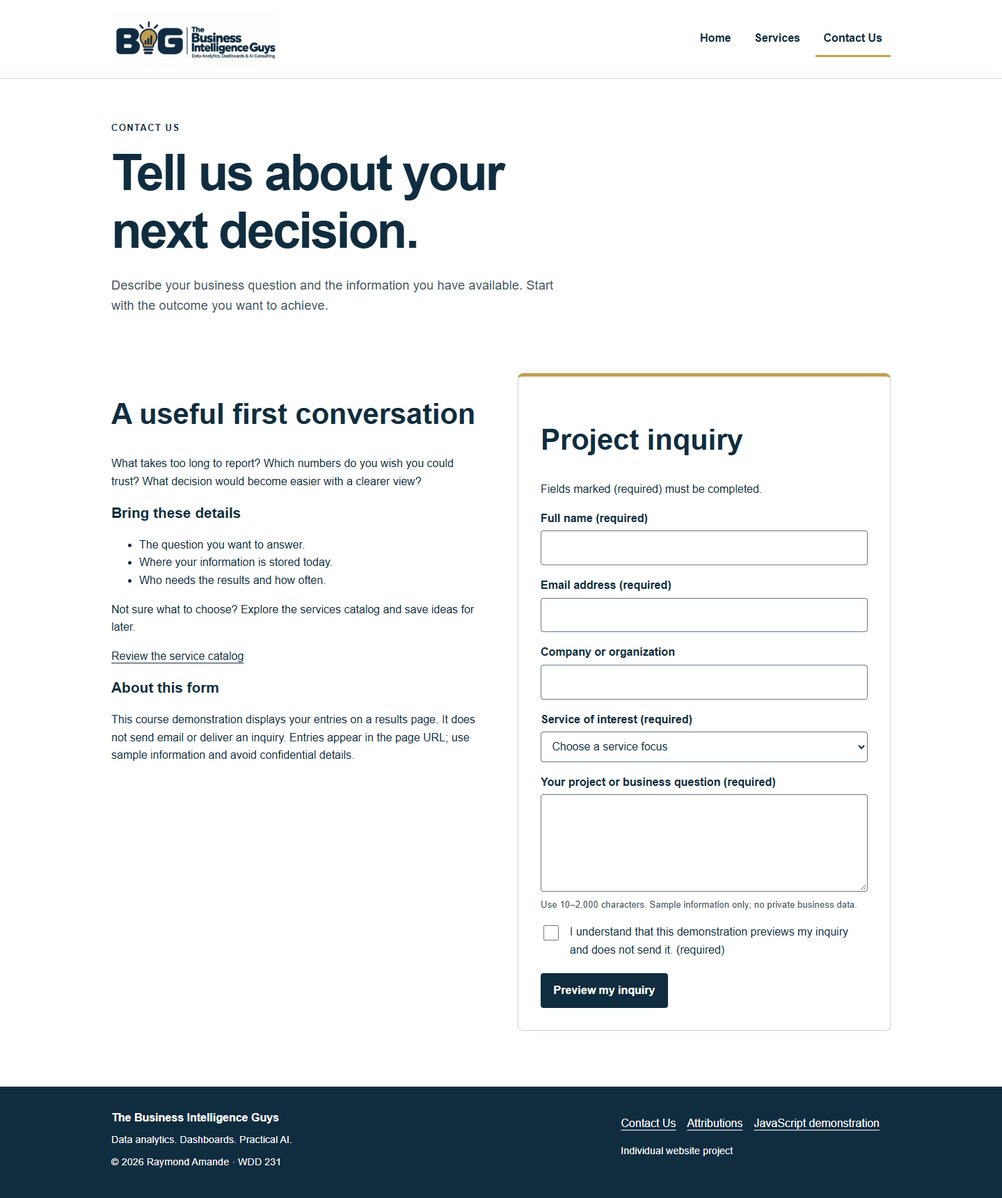
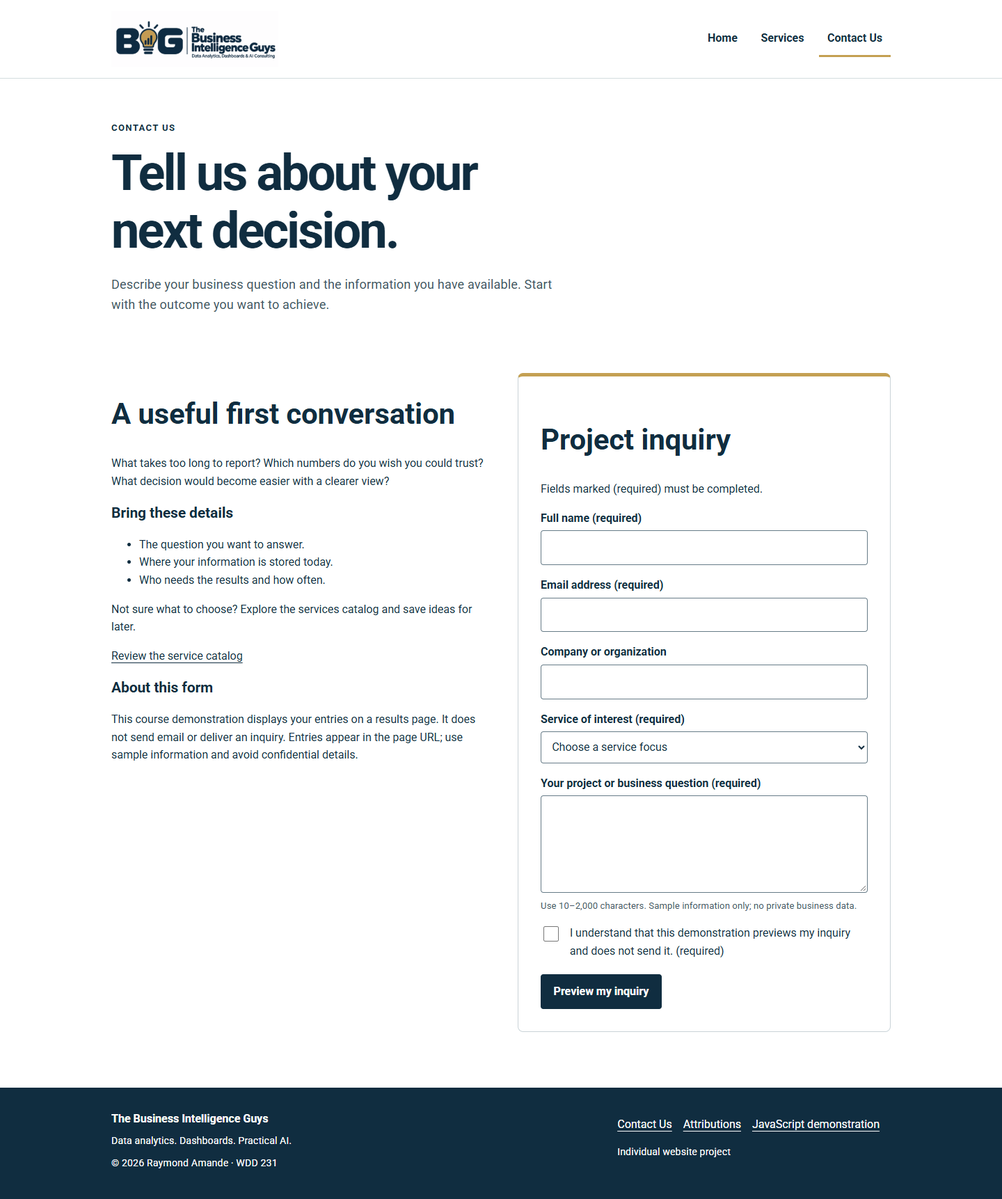
made several updates

diff --git a/final_project/styles/site.css b/final_project/styles/site.css
@@ -1,6 +1,6 @@
-:root{--navy:#102d40;--gold:#c4a052;--paper:#f4f6f5;--muted:#405563;font-family:Arial,sans-serif;color:var(--navy);background:white;line-height:1.6}
-*{box-sizing:border-box}body{margin:0}img{max-width:100%;height:auto;display:block}a{color:inherit;text-underline-offset:.25em}button,input,select,textarea{font:inherit}button,a,input,select,textarea{touch-action:manipulation}button{cursor:pointer}h1,h2,h3{line-height:1.15;text-wrap:balance}h1{font-size:clamp(2.3rem,5vw,4.8rem);letter-spacing:-.04em;margin:.6rem 0 1.4rem}h2{font-size:clamp(1.7rem,3vw,2.6rem)}h3{font-size:1.3rem}p{max-width:65ch}p,li,dd{overflow-wrap:anywhere}.wrap{width:min(1120px,calc(100% - 2rem));margin:auto}.skip{position:absolute;top:-100px;left:1rem;background:white;padding:1rem;z-index:10}.skip:focus{top:1rem}:focus-visible{outline:3px solid #967023;outline-offset:4px}header{border-bottom:1px solid #d4dddf}.header-inner{display:flex;align-items:center;justify-content:space-between;gap:1rem;padding:1rem 0}.brand img{width:240px}.menu{background:var(--navy);color:white;border:0;padding:.6rem .9rem;min-height:44px}nav{display:flex;gap:.6rem}nav a{padding:.75rem;text-decoration:none;font-weight:bold;min-height:44px}nav a[aria-current]{border-bottom:3px solid var(--gold)}nav a:hover{background:var(--paper)}.eyebrow{text-transform:uppercase;letter-spacing:.12em;font-size:.8rem;font-weight:bold}.hero{display:grid;grid-template-columns:1.2fr 1fr;gap:3rem;align-items:center;padding:4rem 0}.lead{font-size:1.15rem;color:var(--muted)}.actions{display:flex;flex-wrap:wrap;gap:.8rem;margin-top:1.6rem}.button{display:inline-flex;align-items:center;justify-content:center;min-height:44px;border:1px solid var(--navy);background:var(--navy);color:white;padding:.7rem 1.1rem;border-radius:4px;text-decoration:none;font-weight:bold}.button.secondary{background:white;color:var(--navy)}.button:hover{background:var(--gold);color:var(--navy)}.dashboard{background:var(--navy);color:white;padding:1.6rem;border-radius:12px;box-shadow:12px 12px 0 #e9e1cd}.dashboard .eyebrow{color:var(--gold)}.metrics{display:grid;grid-template-columns:1fr 1fr;gap:1rem}.metric{border:1px solid #647783;padding:1rem;border-radius:6px}.metric strong{display:block;font-size:1.9rem;color:var(--gold)}.bars{height:130px;display:flex;align-items:end;gap:8%;border-bottom:1px solid #647783;margin:1.5rem 0}.bars span{flex:1;background:var(--gold);height:var(--height);border-radius:3px 3px 0 0}.caption{font-size:.85rem}.band{background:var(--paper);padding:3rem 0}.section{padding:3rem 0}.grid{display:grid;grid-template-columns:repeat(3,minmax(0,1fr));gap:1.2rem}.card{border:1px solid #c8d3d7;border-radius:8px;padding:1.5rem;background:white;display:flex;flex-direction:column;align-items:start}.card h2{font-size:1.35rem;margin:.7rem 0}.card h3{margin:.7rem 0}.card .button{margin-top:auto}.tag{font-size:.8rem;background:#eee7d5;padding:.25rem .6rem;border-radius:3px;font-weight:bold}.split{display:grid;grid-template-columns:1fr 1fr;gap:3rem;align-items:start}.number{color:#796025;font-size:2rem;font-weight:bold}.callout{background:var(--navy);color:white;padding:2rem;border-radius:8px}.callout .button{background:var(--gold);color:var(--navy)}footer{background:var(--navy);color:white;padding:2rem 0;margin-top:2rem}footer .wrap{display:flex;justify-content:space-between;gap:2rem;flex-wrap:wrap}footer a{display:inline-block;padding:.5rem 0;margin-right:1rem}footer p{margin:.5rem 0;font-size:.9rem}.page-intro{padding:3rem 0 1rem;max-width:780px}.toolbar{display:flex;flex-wrap:wrap;gap:1rem;align-items:end;padding:1.3rem;background:var(--paper);border-radius:8px;margin-bottom:1.5rem}.toolbar label{display:grid;gap:.3rem;flex:1;min-width:150px}.toolbar .check{display:flex;align-items:center;gap:.5rem;min-height:44px}.status{min-height:1.6em;color:var(--muted)}input,select,textarea{width:100%;border:1px solid #667b87;border-radius:4px;padding:.7rem;background:white;color:var(--navy)}input[type=checkbox]{width:22px;height:22px}.card dl{font-size:.9rem;margin:1rem 0}.card dt{font-weight:bold}.card dd{margin:0 0 .6rem;color:var(--muted)}.card-actions{display:flex;flex-wrap:wrap;gap:.5rem;margin-top:auto}.card-actions .button{font-size:.9rem}.save[aria-pressed=true]{background:#eee7d5;color:var(--navy)}dialog{width:min(560px,calc(100% - 2rem));max-height:85vh;border:0;border-radius:10px;padding:2rem;color:var(--navy)}dialog::backdrop{background:#102d40b8}.dialog-top{display:flex;justify-content:space-between;align-items:start;gap:1rem}.dialog-top h2{margin:0}.dialog-top button{min-width:44px;min-height:44px;background:var(--paper);border:1px solid #667b87}.form-panel{border:1px solid #c8d3d7;border-top:5px solid var(--gold);padding:2rem;border-radius:8px}form label{display:block;font-weight:bold;margin:1rem 0 .3rem}form small{display:block;color:var(--muted)}textarea{min-height:140px;resize:vertical}.form-panel .button{margin-top:1rem}.form-panel .check{display:flex;gap:.8rem;align-items:start;font-weight:normal}.results{display:grid;grid-template-columns:9rem 1fr;gap:0;margin:0}.results dt,.results dd{padding:1rem;border-bottom:1px solid #c8d3d7;margin:0}.results dt{font-weight:bold}.illustration{width:100%;border-radius:8px}.empty{grid-column:1/-1;padding:2rem;background:var(--paper)}[hidden]{display:none!important}
+:root{--navy:#102d40;--gold:#c4a052;--paper:#f4f6f5;--muted:#405563;font-family:"Roboto",Arial,sans-serif;color:var(--navy);background:white;line-height:1.6}
+*{box-sizing:border-box}body{margin:0}img{max-width:100%;height:auto;display:block}a{color:inherit;text-underline-offset:.25em}button,input,select,textarea{font:inherit}button,a,input,select,textarea{touch-action:manipulation}button{cursor:pointer}h1,h2,h3{line-height:1.15;text-wrap:balance}h1{font-size:clamp(2.3rem,5vw,4.8rem);letter-spacing:-.04em;margin:.6rem 0 1.4rem}h2{font-size:clamp(1.7rem,3vw,2.6rem)}h3{font-size:1.3rem}p{max-width:65ch}p,li,dd{overflow-wrap:anywhere}.wrap{width:min(1120px,calc(100% - 2rem));margin:auto}.skip{position:absolute;top:-100px;left:1rem;background:white;padding:1rem;z-index:10}.skip:focus{top:1rem}:focus-visible{outline:3px solid #967023;outline-offset:4px}header{border-bottom:1px solid #d4dddf}.header-inner{display:flex;align-items:center;justify-content:space-between;gap:1rem;padding:1rem 0}.brand img{width:240px}.menu{background:var(--navy);color:white;border:0;padding:.6rem .9rem;min-height:44px}nav{display:flex;gap:.6rem}nav a{padding:.75rem;text-decoration:none;font-weight:bold;min-height:44px}nav a[aria-current]{border-bottom:3px solid var(--gold)}nav a:hover{background:var(--paper)}.eyebrow{text-transform:uppercase;letter-spacing:.12em;font-size:.8rem;font-weight:bold}.hero{display:grid;grid-template-columns:1.2fr 1fr;gap:3rem;align-items:center;padding:4rem 0}.lead{font-size:1.15rem;color:var(--muted)}.actions{display:flex;flex-wrap:wrap;gap:.8rem;margin-top:1.6rem}.button{display:inline-flex;align-items:center;justify-content:center;min-height:44px;border:1px solid var(--navy);background:var(--navy);color:white;padding:.7rem 1.1rem;border-radius:4px;text-decoration:none;font-weight:bold}.button.secondary{background:white;color:var(--navy)}.button:hover{background:var(--gold);color:var(--navy)}.dashboard{background:var(--navy);color:white;padding:1.6rem;border-radius:12px;box-shadow:12px 12px 0 #e9e1cd}.dashboard .eyebrow{color:var(--gold)}.metrics{display:grid;grid-template-columns:1fr 1fr;gap:1rem}.metric{border:1px solid #647783;padding:1rem;border-radius:6px}.metric strong{display:block;font-size:1.9rem;color:var(--gold)}.bars{height:130px;display:flex;align-items:end;gap:8%;border-bottom:1px solid #647783;margin:1.5rem 0}.bars span{flex:1;background:var(--gold);height:var(--height);border-radius:3px 3px 0 0}.caption{font-size:.85rem}.band{background:var(--paper);padding:3rem 0}.section{padding:3rem 0}.grid{display:grid;grid-template-columns:repeat(3,minmax(0,1fr));gap:1.2rem}.card{border:1px solid #c8d3d7;border-radius:8px;padding:1.5rem;background:white;display:flex;flex-direction:column;align-items:start}.card h2{font-size:1.35rem;margin:.7rem 0}.card h3{margin:.7rem 0}.card .button{margin-top:auto}.tag{font-size:.8rem;background:#eee7d5;padding:.25rem .6rem;border-radius:3px;font-weight:bold}.split{display:grid;grid-template-columns:1fr 1fr;gap:3rem;align-items:start}.number{color:#796025;font-size:2rem;font-weight:bold}.callout{background:var(--navy);color:white;padding:2rem;border-radius:8px}.callout .button{background:var(--gold);color:var(--navy)}footer{background:var(--navy);color:white;padding:2rem 0;margin-top:2rem}footer .wrap{display:flex;justify-content:space-between;gap:2rem;flex-wrap:wrap}footer a{display:inline-block;padding:.5rem 0;margin-right:1rem}footer p{margin:.5rem 0;font-size:.9rem}.page-intro{padding:3rem 0 1rem;max-width:780px}.toolbar{display:flex;flex-wrap:wrap;gap:1rem;align-items:end;padding:1.3rem;background:var(--paper);border-radius:8px;margin-bottom:1.5rem}.toolbar label{display:grid;gap:.3rem;flex:1;min-width:150px}.toolbar .check{display:flex;align-items:center;gap:.5rem;min-height:44px}.status{min-height:1.6em;color:var(--muted)}input,select,textarea{width:100%;border:1px solid #667b87;border-radius:4px;padding:.7rem;background:white;color:var(--navy)}input[type=checkbox]{width:22px;height:22px;flex-shrink:0}.card dl{font-size:.9rem;margin:1rem 0}.card dt{font-weight:bold}.card dd{margin:0 0 .6rem;color:var(--muted)}.card-actions{display:flex;flex-wrap:wrap;gap:.5rem;margin-top:auto}.card-actions .button{font-size:.9rem}.save[aria-pressed=true]{background:#eee7d5;color:var(--navy)}dialog{width:min(560px,calc(100% - 2rem));max-height:85vh;border:0;border-radius:10px;padding:2rem;color:var(--navy)}dialog::backdrop{background:#102d40b8}.dialog-top{display:flex;justify-content:space-between;align-items:start;gap:1rem}.dialog-top h2{margin:0}.dialog-top button{min-width:44px;min-height:44px;background:var(--paper);border:1px solid #667b87}.form-panel{border:1px solid #c8d3d7;border-top:5px solid var(--gold);padding:2rem;border-radius:8px}form label{display:block;font-weight:bold;margin:1rem 0 .3rem}form small{display:block;color:var(--muted)}textarea{min-height:140px;resize:vertical}.form-panel .button{margin-top:1rem}.form-panel .check{display:flex;gap:.8rem;align-items:start;font-weight:normal}.results{display:grid;grid-template-columns:9rem 1fr;gap:0;margin:0}.results dt,.results dd{padding:1rem;border-bottom:1px solid #c8d3d7;margin:0}.results dt{font-weight:bold}.illustration{width:100%;border-radius:8px}.empty{grid-column:1/-1;padding:2rem;background:var(--paper)}[hidden][hidden]{display:none}
 @media(max-width:760px){.header-inner{flex-wrap:wrap}.brand img{width:190px}nav{width:100%;flex-direction:column}nav:not(.open){display:none}.hero,.split{grid-template-columns:1fr;gap:2rem}.hero{padding:2.5rem 0}.grid{grid-template-columns:repeat(2,minmax(0,1fr))}.dashboard{box-shadow:6px 6px 0 #e9e1cd}.form-panel{padding:1.2rem}}
-input[type=checkbox]{flex-shrink:0}
+
 @media(max-width:500px){.brand img{width:160px}.grid{grid-template-columns:1fr}.results{grid-template-columns:1fr}.results dt{border:0;padding-bottom:0}.section,.band{padding:2rem 0}}
 @media(min-width:761px){.menu{display:none}}

diff --git a/final_project/attributions.html b/final_project/attributions.html
@@ -2,14 +2,17 @@
 <html lang="en-US" prefix="og: https://ogp.me/ns#">
 <head>
 <meta charset="utf-8"><meta name="viewport" content="width=device-width, initial-scale=1">
-<title>Content and Asset Attributions | The Business Intelligence Guys</title>
+<title>Attributions | The Business Intelligence Guys</title>
 <meta name="description" content="Sources and authorship for the branding, content, and sample data used in this individual project."><meta name="author" content="Raymond Amande"><meta name="theme-color" content="#102d40">
-<meta property="og:title" content="Content and Asset Attributions | The Business Intelligence Guys"><meta property="og:description" content="Sources and authorship for the branding, content, and sample data used in this individual project."><meta property="og:type" content="website"><meta property="og:url" content="https://raymondangel.github.io/https---github.com-RaymondAngel-wdd231/final_project/attributions.html"><meta property="og:image" content="https://raymondangel.github.io/https---github.com-RaymondAngel-wdd231/final_project/images/logo.png"><meta property="og:image:alt" content="The Business Intelligence Guys logo"><meta property="og:site_name" content="The Business Intelligence Guys">
+<meta property="og:title" content="Attributions | The Business Intelligence Guys"><meta property="og:description" content="Sources and authorship for the branding, content, and sample data used in this individual project."><meta property="og:type" content="website"><meta property="og:url" content="https://raymondangel.github.io/wdd231/final_project/attributions.html"><meta property="og:image" content="https://raymondangel.github.io/wdd231/final_project/images/logo.png"><meta property="og:image:alt" content="The Business Intelligence Guys logo"><meta property="og:site_name" content="The Business Intelligence Guys">
 <link rel="icon" type="image/png" href="images/favicon-32.png"><link rel="stylesheet" href="styles/site.css">
 <script type="module" src="scripts/main.mjs"></script>
+<link rel="preconnect" href="https://fonts.googleapis.com">
+<link rel="preconnect" href="https://fonts.gstatic.com" crossorigin>
+<link href="https://fonts.googleapis.com/css2?family=Roboto:wght@400;700&display=swap" rel="stylesheet">
 </head><body>
 <a class="skip" href="#main">Skip to content</a>
 <header><div class="wrap header-inner"><a class="brand" href="index.html" aria-label="The Business Intelligence Guys home"><img src="images/logo.png" width="720" height="240" alt="The Business Intelligence Guys"></a><button class="menu" type="button" aria-controls="navigation" aria-expanded="false">Menu &#9776;</button><nav id="navigation" aria-label="Primary navigation"><a href="index.html">Home</a><a href="services.html">Services</a><a href="contact.html">Contact Us</a></nav></div></header>
-<main id="main"><div class="wrap section"><h1>Attributions</h1><h2>Project authorship</h2><p>The website concept, business idea, and project planning were developed by Raymond Amande for his WDD 231 individual website project. OpenAI Codex was used for debugging assistance and explanations during development.</p><h2>Branding</h2><p>The name, palette, typography, and page structure follow the existing <a href="site-plan.html">site plan</a>. Logo and favicon reuse the existing AI-generated project assets. Original image prompts are retained in the notes folder.</p><h2>Illustrative content</h2><p>Service descriptions, the process diagram, and the dashboard example were created for this project. Revenue, orders, and chart values are fictional. No customer testimonials or client results are presented.</p><h2>Technology</h2><p>Built with HTML, CSS, and JavaScript ES modules. No third-party frameworks, templates, or font downloads are used.</p></div></main>
+<main id="main"><div class="wrap section"><h1>Attributions</h1><h2>Project authorship</h2><p>The website concept, business idea, and project planning were developed by Raymond Amande for his WDD 231 individual website project. OpenAI Codex was used for debugging assistance and explanations during development.</p><h2>Branding</h2><p>The name, palette, typography, and page structure follow the existing <a href="site-plan.html">site plan</a>. Logo and favicon reuse the existing AI-generated project assets. Original image prompts are retained in the notes folder.</p><h2>Illustrative content</h2><p>Service descriptions, the process diagram, and the dashboard example were created for this project. Revenue, orders, and chart values are fictional. No customer testimonials or client results are presented.</p><h2>Technology</h2><p>Built with HTML, CSS, and JavaScript ES modules. Roboto is provided through Google Fonts. No third-party frameworks or templates are used.</p></div></main>
 <footer><div class="wrap"><div><strong>The Business Intelligence Guys</strong><p>Data analytics. Dashboards. Practical AI.</p><p>&copy; <span id="year">2026</span> Raymond Amande &middot; WDD 231</p></div><div><a href="contact.html">Contact Us</a><a href="attributions.html">Attributions</a><a href="video.html">JavaScript demonstration</a><p>Individual website project</p></div></div></footer>
 </body></html>

diff --git a/final_project/site-plan.html b/final_project/site-plan.html
@@ -9,6 +9,9 @@
   <title>Site Plan | The Business Intelligence Guys</title>
   <link rel="icon" href="images/favicon.ico">
   <link rel="stylesheet" href="styles/site-plan.css">
+<link rel="preconnect" href="https://fonts.googleapis.com">
+<link rel="preconnect" href="https://fonts.gstatic.com" crossorigin>
+<link href="https://fonts.googleapis.com/css2?family=Roboto:wght@400;700&display=swap" rel="stylesheet">
 </head>
 <body>
   <a class="skip-link" href="#main">Skip to content</a>
@@ -36,7 +39,7 @@
       <h2 id="name-heading">Site Name</h2>
       <p><strong>The Business Intelligence Guys</strong> identifies the company’s focus on business intelligence. The abbreviation “BIG” creates a memorable brand, while the light-bulb logo represents ideas, insight, and turning data into useful information.</p>
       <figure class="brand">
-        <img src="images/business_intelligence_guys_logo-v2.png" alt="BIG logo with a gold light bulb and the words The Business Intelligence Guys: Data Analytics, Dashboards &amp; AI Consulting" width="2172" height="724">
+        <img src="images/logo.png" alt="BIG logo with a gold light bulb and the words The Business Intelligence Guys: Data Analytics, Dashboards &amp; AI Consulting" width="720" height="240">
         <figcaption>The company logo and matching light-bulb favicon establish a consistent visual identity.</figcaption>
       </figure>
     </section>
@@ -101,15 +104,15 @@
     <section id="typography" aria-labelledby="type-heading">
       <p class="section-number">05 / Type</p>
       <h2 id="type-heading">Typography</h2>
-      <p><strong>Arial</strong> is the selected font for the website and this plan, with a generic sans-serif fallback if Arial is unavailable.</p>
+      <p><strong>Roboto</strong> is the selected font for the website and this plan, with a generic sans-serif fallback if Roboto is unavailable.</p>
       <div class="type-sample">
         <h3>Clear insights for better decisions</h3>
-        <p>This paragraph demonstrates regular Arial for service descriptions and other body text. Comfortable line spacing and short paragraphs will support readability.</p>
+        <p>This paragraph demonstrates regular Roboto for service descriptions and other body text. Comfortable line spacing and short paragraphs will support readability.</p>
       </div>
       <ul>
-        <li><strong>Headings:</strong> Bold Arial establishes the content hierarchy.</li>
-        <li><strong>Body text:</strong> Regular Arial presents descriptions and paragraphs.</li>
-        <li><strong>Navigation, buttons, and form labels:</strong> Arial with consistent sizing and appropriate emphasis.</li>
+        <li><strong>Headings:</strong> Bold Roboto establishes the content hierarchy.</li>
+        <li><strong>Body text:</strong> Regular Roboto presents descriptions and paragraphs.</li>
+        <li><strong>Navigation, buttons, and form labels:</strong> Roboto with consistent sizing and appropriate emphasis.</li>
       </ul>
     </section>
 

diff --git a/final_project/services.html b/final_project/services.html
@@ -4,9 +4,12 @@
 <meta charset="utf-8"><meta name="viewport" content="width=device-width, initial-scale=1">
 <title>Data, Dashboard and AI Services | The Business Intelligence Guys</title>
 <meta name="description" content="Browse fifteen business intelligence services, save favorites, and explore practical service examples."><meta name="author" content="Raymond Amande"><meta name="theme-color" content="#102d40">
-<meta property="og:title" content="Data, Dashboard and AI Services | The Business Intelligence Guys"><meta property="og:description" content="Browse fifteen business intelligence services, save favorites, and explore practical service examples."><meta property="og:type" content="website"><meta property="og:url" content="https://raymondangel.github.io/https---github.com-RaymondAngel-wdd231/final_project/services.html"><meta property="og:image" content="https://raymondangel.github.io/https---github.com-RaymondAngel-wdd231/final_project/images/logo.png"><meta property="og:image:alt" content="The Business Intelligence Guys logo"><meta property="og:site_name" content="The Business Intelligence Guys">
+<meta property="og:title" content="Data, Dashboard and AI Services | The Business Intelligence Guys"><meta property="og:description" content="Browse fifteen business intelligence services, save favorites, and explore practical service examples."><meta property="og:type" content="website"><meta property="og:url" content="https://raymondangel.github.io/wdd231/final_project/services.html"><meta property="og:image" content="https://raymondangel.github.io/wdd231/final_project/images/logo.png"><meta property="og:image:alt" content="The Business Intelligence Guys logo"><meta property="og:site_name" content="The Business Intelligence Guys">
 <link rel="icon" type="image/png" href="images/favicon-32.png"><link rel="stylesheet" href="styles/site.css">
 <script type="module" src="scripts/main.mjs"></script><script type="module" src="scripts/services.mjs"></script>
+<link rel="preconnect" href="https://fonts.googleapis.com">
+<link rel="preconnect" href="https://fonts.gstatic.com" crossorigin>
+<link href="https://fonts.googleapis.com/css2?family=Roboto:wght@400;700&display=swap" rel="stylesheet">
 </head><body>
 <a class="skip" href="#main">Skip to content</a>
 <header><div class="wrap header-inner"><a class="brand" href="index.html" aria-label="The Business Intelligence Guys home"><img src="images/logo.png" width="720" height="240" alt="The Business Intelligence Guys"></a><button class="menu" type="button" aria-controls="navigation" aria-expanded="false">Menu &#9776;</button><nav id="navigation" aria-label="Primary navigation"><a href="index.html">Home</a><a href="services.html" aria-current="page">Services</a><a href="contact.html">Contact Us</a></nav></div></header>

diff --git a/final_project/contact.html b/final_project/contact.html
@@ -4,9 +4,12 @@
 <meta charset="utf-8"><meta name="viewport" content="width=device-width, initial-scale=1">
 <title>Contact Us About Your Data Project | The Business Intelligence Guys</title>
 <meta name="description" content="Outline your analytics, dashboard, or AI project in an accessible demonstration inquiry form."><meta name="author" content="Raymond Amande"><meta name="theme-color" content="#102d40">
-<meta property="og:title" content="Contact Us About Your Data Project | The Business Intelligence Guys"><meta property="og:description" content="Outline your analytics, dashboard, or AI project in an accessible demonstration inquiry form."><meta property="og:type" content="website"><meta property="og:url" content="https://raymondangel.github.io/https---github.com-RaymondAngel-wdd231/final_project/contact.html"><meta property="og:image" content="https://raymondangel.github.io/https---github.com-RaymondAngel-wdd231/final_project/images/logo.png"><meta property="og:image:alt" content="The Business Intelligence Guys logo"><meta property="og:site_name" content="The Business Intelligence Guys">
+<meta property="og:title" content="Contact Us About Your Data Project | The Business Intelligence Guys"><meta property="og:description" content="Outline your analytics, dashboard, or AI project in an accessible demonstration inquiry form."><meta property="og:type" content="website"><meta property="og:url" content="https://raymondangel.github.io/wdd231/final_project/contact.html"><meta property="og:image" content="https://raymondangel.github.io/wdd231/final_project/images/logo.png"><meta property="og:image:alt" content="The Business Intelligence Guys logo"><meta property="og:site_name" content="The Business Intelligence Guys">
 <link rel="icon" type="image/png" href="images/favicon-32.png"><link rel="stylesheet" href="styles/site.css">
 <script type="module" src="scripts/main.mjs"></script><script type="module" src="scripts/contact.mjs"></script>
+<link rel="preconnect" href="https://fonts.googleapis.com">
+<link rel="preconnect" href="https://fonts.gstatic.com" crossorigin>
+<link href="https://fonts.googleapis.com/css2?family=Roboto:wght@400;700&display=swap" rel="stylesheet">
 </head><body>
 <a class="skip" href="#main">Skip to content</a>
 <header><div class="wrap header-inner"><a class="brand" href="index.html" aria-label="The Business Intelligence Guys home"><img src="images/logo.png" width="720" height="240" alt="The Business Intelligence Guys"></a><button class="menu" type="button" aria-controls="navigation" aria-expanded="false">Menu &#9776;</button><nav id="navigation" aria-label="Primary navigation"><a href="index.html">Home</a><a href="services.html">Services</a><a href="contact.html" aria-current="page">Contact Us</a></nav></div></header>

diff --git a/final_project/index.html b/final_project/index.html
@@ -4,9 +4,12 @@
 <meta charset="utf-8"><meta name="viewport" content="width=device-width, initial-scale=1">
 <title>Business Intelligence for Better Decisions | The Business Intelligence Guys</title>
 <meta name="description" content="Explore data analytics, dashboards, and practical AI service ideas for small businesses."><meta name="author" content="Raymond Amande"><meta name="theme-color" content="#102d40">
-<meta property="og:title" content="Business Intelligence for Better Decisions | The Business Intelligence Guys"><meta property="og:description" content="Explore data analytics, dashboards, and practical AI service ideas for small businesses."><meta property="og:type" content="website"><meta property="og:url" content="https://raymondangel.github.io/https---github.com-RaymondAngel-wdd231/final_project/index.html"><meta property="og:image" content="https://raymondangel.github.io/https---github.com-RaymondAngel-wdd231/final_project/images/logo.png"><meta property="og:image:alt" content="The Business Intelligence Guys logo"><meta property="og:site_name" content="The Business Intelligence Guys">
+<meta property="og:title" content="Business Intelligence for Better Decisions | The Business Intelligence Guys"><meta property="og:description" content="Explore data analytics, dashboards, and practical AI service ideas for small businesses."><meta property="og:type" content="website"><meta property="og:url" content="https://raymondangel.github.io/wdd231/final_project/index.html"><meta property="og:image" content="https://raymondangel.github.io/wdd231/final_project/images/logo.png"><meta property="og:image:alt" content="The Business Intelligence Guys logo"><meta property="og:site_name" content="The Business Intelligence Guys">
 <link rel="icon" type="image/png" href="images/favicon-32.png"><link rel="stylesheet" href="styles/site.css">
 <script type="module" src="scripts/main.mjs"></script>
+<link rel="preconnect" href="https://fonts.googleapis.com">
+<link rel="preconnect" href="https://fonts.gstatic.com" crossorigin>
+<link href="https://fonts.googleapis.com/css2?family=Roboto:wght@400;700&display=swap" rel="stylesheet">
 </head><body>
 <a class="skip" href="#main">Skip to content</a>
 <header><div class="wrap header-inner"><a class="brand" href="index.html" aria-label="The Business Intelligence Guys home"><img src="images/logo.png" width="720" height="240" alt="The Business Intelligence Guys"></a><button class="menu" type="button" aria-controls="navigation" aria-expanded="false">Menu &#9776;</button><nav id="navigation" aria-label="Primary navigation"><a href="index.html" aria-current="page">Home</a><a href="services.html">Services</a><a href="contact.html">Contact Us</a></nav></div></header>

diff --git a/final_project/thankyou.html b/final_project/thankyou.html
@@ -4,9 +4,12 @@
 <meta charset="utf-8"><meta name="viewport" content="width=device-width, initial-scale=1">
 <title>Your Inquiry Preview | The Business Intelligence Guys</title>
 <meta name="description" content="Review the details entered in the Business Intelligence Guys demonstration contact form."><meta name="author" content="Raymond Amande"><meta name="theme-color" content="#102d40">
-<meta property="og:title" content="Your Inquiry Preview | The Business Intelligence Guys"><meta property="og:description" content="Review the details entered in the Business Intelligence Guys demonstration contact form."><meta property="og:type" content="website"><meta property="og:url" content="https://raymondangel.github.io/https---github.com-RaymondAngel-wdd231/final_project/thankyou.html"><meta property="og:image" content="https://raymondangel.github.io/https---github.com-RaymondAngel-wdd231/final_project/images/logo.png"><meta property="og:image:alt" content="The Business Intelligence Guys logo"><meta property="og:site_name" content="The Business Intelligence Guys">
+<meta property="og:title" content="Your Inquiry Preview | The Business Intelligence Guys"><meta property="og:description" content="Review the details entered in the Business Intelligence Guys demonstration contact form."><meta property="og:type" content="website"><meta property="og:url" content="https://raymondangel.github.io/wdd231/final_project/thankyou.html"><meta property="og:image" content="https://raymondangel.github.io/wdd231/final_project/images/logo.png"><meta property="og:image:alt" content="The Business Intelligence Guys logo"><meta property="og:site_name" content="The Business Intelligence Guys">
 <link rel="icon" type="image/png" href="images/favicon-32.png"><link rel="stylesheet" href="styles/site.css">
 <script type="module" src="scripts/main.mjs"></script><script type="module" src="scripts/thankyou.mjs"></script>
+<link rel="preconnect" href="https://fonts.googleapis.com">
+<link rel="preconnect" href="https://fonts.gstatic.com" crossorigin>
+<link href="https://fonts.googleapis.com/css2?family=Roboto:wght@400;700&display=swap" rel="stylesheet">
 </head><body>
 <a class="skip" href="#main">Skip to content</a>
 <header><div class="wrap header-inner"><a class="brand" href="index.html" aria-label="The Business Intelligence Guys home"><img src="images/logo.png" width="720" height="240" alt="The Business Intelligence Guys"></a><button class="menu" type="button" aria-controls="navigation" aria-expanded="false">Menu &#9776;</button><nav id="navigation" aria-label="Primary navigation"><a href="index.html">Home</a><a href="services.html">Services</a><a href="contact.html">Contact Us</a></nav></div></header>

diff --git a/final_project/video.html b/final_project/video.html
@@ -4,9 +4,12 @@
 <meta charset="utf-8"><meta name="viewport" content="width=device-width, initial-scale=1">
 <title>JavaScript Demonstration Recording | The Business Intelligence Guys</title>
 <meta name="description" content="Recording status and requirements for the student JavaScript demonstration."><meta name="author" content="Raymond Amande"><meta name="theme-color" content="#102d40">
-<meta property="og:title" content="JavaScript Demonstration Recording | The Business Intelligence Guys"><meta property="og:description" content="Recording status and requirements for the student JavaScript demonstration."><meta property="og:type" content="website"><meta property="og:url" content="https://raymondangel.github.io/https---github.com-RaymondAngel-wdd231/final_project/video.html"><meta property="og:image" content="https://raymondangel.github.io/https---github.com-RaymondAngel-wdd231/final_project/images/logo.png"><meta property="og:image:alt" content="The Business Intelligence Guys logo"><meta property="og:site_name" content="The Business Intelligence Guys">
+<meta property="og:title" content="JavaScript Demonstration Recording | The Business Intelligence Guys"><meta property="og:description" content="Recording status and requirements for the student JavaScript demonstration."><meta property="og:type" content="website"><meta property="og:url" content="https://raymondangel.github.io/wdd231/final_project/video.html"><meta property="og:image" content="https://raymondangel.github.io/wdd231/final_project/images/logo.png"><meta property="og:image:alt" content="The Business Intelligence Guys logo"><meta property="og:site_name" content="The Business Intelligence Guys">
 <link rel="icon" type="image/png" href="images/favicon-32.png"><link rel="stylesheet" href="styles/site.css">
 <script type="module" src="scripts/main.mjs"></script>
+<link rel="preconnect" href="https://fonts.googleapis.com">
+<link rel="preconnect" href="https://fonts.gstatic.com" crossorigin>
+<link href="https://fonts.googleapis.com/css2?family=Roboto:wght@400;700&display=swap" rel="stylesheet">
 </head><body>
 <a class="skip" href="#main">Skip to content</a>
 <header><div class="wrap header-inner"><a class="brand" href="index.html" aria-label="The Business Intelligence Guys home"><img src="images/logo.png" width="720" height="240" alt="The Business Intelligence Guys"></a><button class="menu" type="button" aria-controls="navigation" aria-expanded="false">Menu &#9776;</button><nav id="navigation" aria-label="Primary navigation"><a href="index.html">Home</a><a href="services.html">Services</a><a href="contact.html">Contact Us</a></nav></div></header>

diff --git a/final_project/styles/site-plan.css b/final_project/styles/site-plan.css
@@ -2,7 +2,7 @@
   --navy: #102d40;
   --gold: #c4a052;
   --white: #ffffff;
-  font-family: Arial, sans-serif;
+  font-family: "Roboto", Arial, sans-serif;
   color: var(--navy);
   background: var(--white);
   line-height: 1.65;

diff --git a/final_project/scripts/check_project.py b/final_project/scripts/check_project.py
@@ -40,6 +40,7 @@ with sync_playwright() as p:
         resources = page.evaluate('performance.getEntriesByType("resource").map(r => r.name)')
         total = (root / f'final_project/{name}.html').stat().st_size
         for resource in set(resources):
+            if not resource.startswith(base): continue
             path = root / resource.split('8766/')[1].split('?')[0]
             if path.is_file(): total += path.stat().st_size
         assert total < 500000, (name, total)
